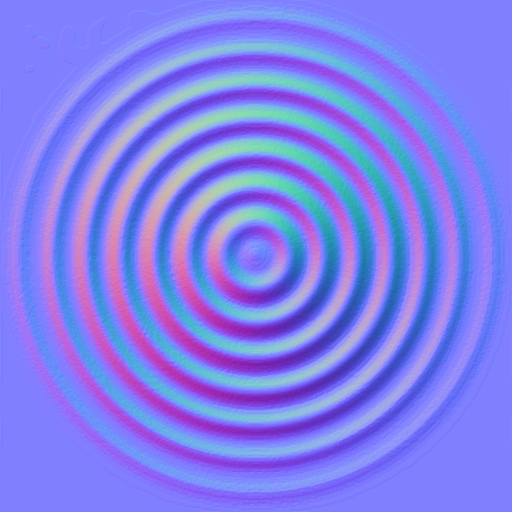
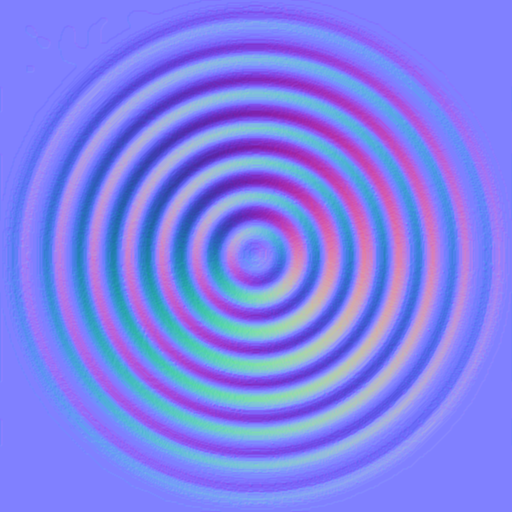
added support for flipping normal map +X direction
- Also changed the rings image to have +X right and +Y down by default
    - I didn't realize that it was +X to the left normally, which is why
      the resulting height map was bad

diff --git a/code/main.cpp b/code/main.cpp
@@ -9,9 +9,10 @@
 struct Options
 {
     std::string normalMapPath;
-    uint32_t numIterations = 64;
+    uint32_t numIterations = 512;
     float slopeScale = 1.0f;
     bool flipY = false;
+    bool flipX = false;
     bool outputGenNormals = false;
     bool rangeOfIterations = false;
 };
@@ -95,7 +96,7 @@ void BuildDisplacement( const FloatImage2D& dxdyImg, float* h0, float* h1, uint3
                 h += cur[col   + up * width]    + 0.5f * (dxdyImg.GetFloat4( up, col ).y);
                 h += cur[col   + down * width]  - 0.5f * (dxdyImg.GetFloat4( down, col ).y);
 #if DIAGONALS
-                const float S = 1.0f; //sqrt( 2.0f ) / 2.0f;
+                const float S = sqrt( 2.0f ) / 2.0f;
                 vec2 UL = dxdyImg.GetFloat4( up, left );
                 vec2 UR = dxdyImg.GetFloat4( up, right );
                 vec2 DL = dxdyImg.GetFloat4( down, left );
@@ -240,13 +241,15 @@ GenerationResults GetHeightMapFromNormalMap( const FloatImage2D& normalMap, uint
     return returnData;
 }
 
-void PackNormalMap( FloatImage2D& normalMap, bool sourceWasYDown )
+void PackNormalMap( FloatImage2D& normalMap, bool flipY, bool flipX )
 {
     for ( uint32_t i = 0; i < normalMap.width * normalMap.height; ++i )
     {
         vec3 normal = normalMap.GetFloat4( i );
-        if ( !sourceWasYDown )
+        if ( flipY )
             normal.y *= -1;
+        if ( flipX )
+            normal.x *= -1;
 
         vec3 packedNormal = 0.5f * (normal + vec3( 1.0f ));
         normalMap.SetFromFloat4( i, vec4( packedNormal, 0 ) );
@@ -258,9 +261,10 @@ static void DisplayHelp()
     auto msg =
         "Usage: NormalToHeight [options] PATH_TO_NORMAL_MAP\n"
         "Will generate height map(s) and will create and output them in a directory called '[PATH_TO_NORMAL_MAP]__autogen/'\n"
-        "Note: this tool expects the normal map to have +Y pointed down. If it's not, use the --flipY option\n\n"
+        "Note: this tool expects the normal map to have +X to the right, and +Y down. See the --flipY option if the +Y direction is up\n\n"
         "Options\n"
         "  -f, --flipY           Flip the Y direction on the normal map when loading it\n"
+        "  -x, --flipX           Flip the X direction on the normal map when loading it\n"
         "  -g, --genNormalMap    Generate the normal map from the generated height map to compare to the original\n"
         "  -h, --help            Print this message and exit\n"
         "  -i, --iterations=N    How many iterations to use while generating the height map. Default is 1024\n"
@@ -283,6 +287,7 @@ static bool ParseCommandLineArgs( int argc, char** argv, Options& options )
     static struct option long_options[] =
     {
         { "flipY",        no_argument,       0, 'f' },
+        { "flipX",        no_argument,       0, 'x' },
         { "genNormalMap", no_argument,       0, 'g' },
         { "help",         no_argument,       0, 'h' },
         { "iterations",   required_argument, 0, 'i' },
@@ -293,12 +298,15 @@ static bool ParseCommandLineArgs( int argc, char** argv, Options& options )
 
     int option_index  = 0;
     int c             = -1;
-    while ( ( c = getopt_long( argc, argv, "fghi:rs:", long_options, &option_index ) ) != -1 )
+    while ( ( c = getopt_long( argc, argv, "fxghi:rs:", long_options, &option_index ) ) != -1 )
     {
         switch ( c )
         {
         case 'f':
             options.flipY = true;
+            break;
+        case 'x':
+            options.flipX = true;
             break;
         case 'g':
             options.outputGenNormals = true;
@@ -343,7 +351,7 @@ int main( int argc, char** argv )
         return 0;
     }
 
-    FloatImage2D normalMap = LoadNormalMap( options.normalMapPath, 1.0f, !options.flipY );
+    FloatImage2D normalMap = LoadNormalMap( options.normalMapPath, 1.0f, options.flipY, options.flipX );
     if ( !normalMap )
         return 0;
 
@@ -352,7 +360,7 @@ int main( int argc, char** argv )
 
     std::vector<uint32_t> iterationsList;
     if ( options.rangeOfIterations )
-        iterationsList = { 32, 64, 128, 256, 512, 1024, 2048, 4096, 32768 };//, 131072 };
+        iterationsList = { 32, 64, 128, 256, 512, 1024, 2048, 4096, 32768 };
     else
         iterationsList = { options.numIterations };
 
@@ -368,7 +376,7 @@ int main( int argc, char** argv )
         if ( options.outputGenNormals )
         {
             LOG( "\tGenerated Normals PSNR = %.3f", result.PSNR );
-            PackNormalMap( result.generatedNormalMap, !options.flipY );
+            PackNormalMap( result.generatedNormalMap, options.flipY, options.flipX );
             result.generatedNormalMap.Save( outputPathBase + "_gn_" + std::to_string( iterationsList[i] ) + GetFileExtension( options.normalMapPath ) );
         }
         result.heightMap.Save( outputPathBase + "_gh_" + std::to_string( iterationsList[i] ) + GetFileExtension( options.normalMapPath ) );
@@ -380,7 +388,7 @@ int main( int argc, char** argv )
     {
         // combine images into 1 big one for comparison, with a 4 pixel border between
         // if normal maps were generated from the height maps, add a 2nd row to this combined image with those
-        const std::unordered_set<uint32_t> imgsToSave = { 32, 128, 512, 2048, 32768 };//, 131072 };
+        const std::unordered_set<uint32_t> imgsToSave = { 32, 128, 512, 2048, 32768 };
         uint32_t imagesSaved = 0;
         const uint32_t totalImagesToSave = (uint32_t)imgsToSave.size();
         const vec4 borderColor = vec4( 0, 0, 1, 1 );

diff --git a/code/image.cpp b/code/image.cpp
@@ -452,7 +452,7 @@ static vec3 ScaleNormal( vec3 n, float scale )
 
 // Unpack the normals such that the error on neutral normals is 0, at the cost of higher error elsewhere
 // http://www.aclockworkberry.com/normal-unpacking-quantization-errors/
-FloatImage2D LoadNormalMap( const std::string& filename, float slopeScale, bool isYDown )
+FloatImage2D LoadNormalMap( const std::string& filename, float slopeScale, bool flipY, bool flipX )
 {
     RawImage2D rawImg;
     if ( !rawImg.Load( filename ) )
@@ -465,8 +465,11 @@ FloatImage2D LoadNormalMap( const std::string& filename, float slopeScale, bool 
         for ( uint32_t i = 0; i < normalMap.width * normalMap.height; ++i )
         {
             vec3 normal = UnpackNormal_32Bit( vec3( normalMap.GetFloat4( i ) ) );
-            if ( !isYDown )
+            if ( flipY )
                 normal.y *= -1;
+            if ( flipX )
+                normal.x *= -1;
+
             normal = ScaleNormal( normal, slopeScale );
             normalMap.SetFromFloat4( i, vec4( normal, 0 ) );
         }
@@ -482,8 +485,11 @@ FloatImage2D LoadNormalMap( const std::string& filename, float slopeScale, bool 
             else
                 normal = UnpackNormal_16Bit( rawImg.Raw<uint16_t>() + i * rawImg.NumChannels() );
 
-            if ( !isYDown )
+            if ( flipY )
                 normal.y *= -1;
+            if ( flipX )
+                normal.x *= -1;
+
             normal = ScaleNormal( normal, slopeScale );
             normalMap.SetFromFloat4( i, vec4( normal, 0 ) );
         }

diff --git a/code/image.hpp b/code/image.hpp
@@ -268,4 +268,4 @@ uint32_t CalculateNumMips( uint32_t width, uint32_t height );
 double FloatImageMSE( const FloatImage2D& img1, const FloatImage2D& img2, uint32_t channelsToCalc = 0b1111 );
 double MSEToPSNR( double mse, double maxValue = 1.0 );
 
-FloatImage2D LoadNormalMap( const std::string& filename, float slopeScale, bool isYDown );
+FloatImage2D LoadNormalMap( const std::string& filename, float slopeScale, bool flipY, bool flipX );

diff --git a/README.md b/README.md
@@ -31,10 +31,12 @@ make -j
 ```
 
 ## Usage
+
+`NormalToHeight --help`:
 ```
 NormalToHeight [options] PATH_TO_NORMAL_MAP
 Will generate height map(s) and will create and output them in a directory called '[PATH_TO_NORMAL_MAP]__autogen/'
-Note: this tool expects the normal map to have +Y pointed down. If it's not, use the --flipY option
+Note: this tool expects the normal map to have +X to the right, and +Y down. See the --flipY and flipX options if not.
 
 Options
   -f, --flipY           Flip the Y direction on the normal map when loading it
@@ -46,7 +48,8 @@ Options
   -s, --slopeScale=X    How much to scale the normals by, before generating the height map. Default is 1.0
 ```
 
-Please use `NormalToHeight --help` for the latest usage
+## Example
+
 
 
 ## Credits for the source normal maps:
